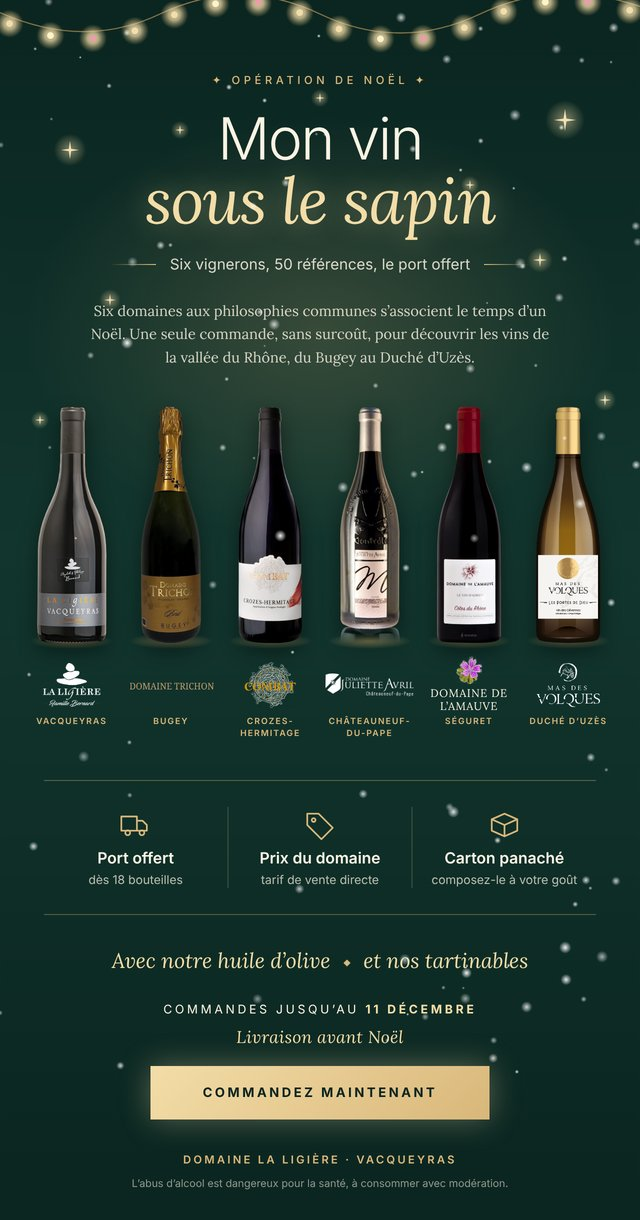
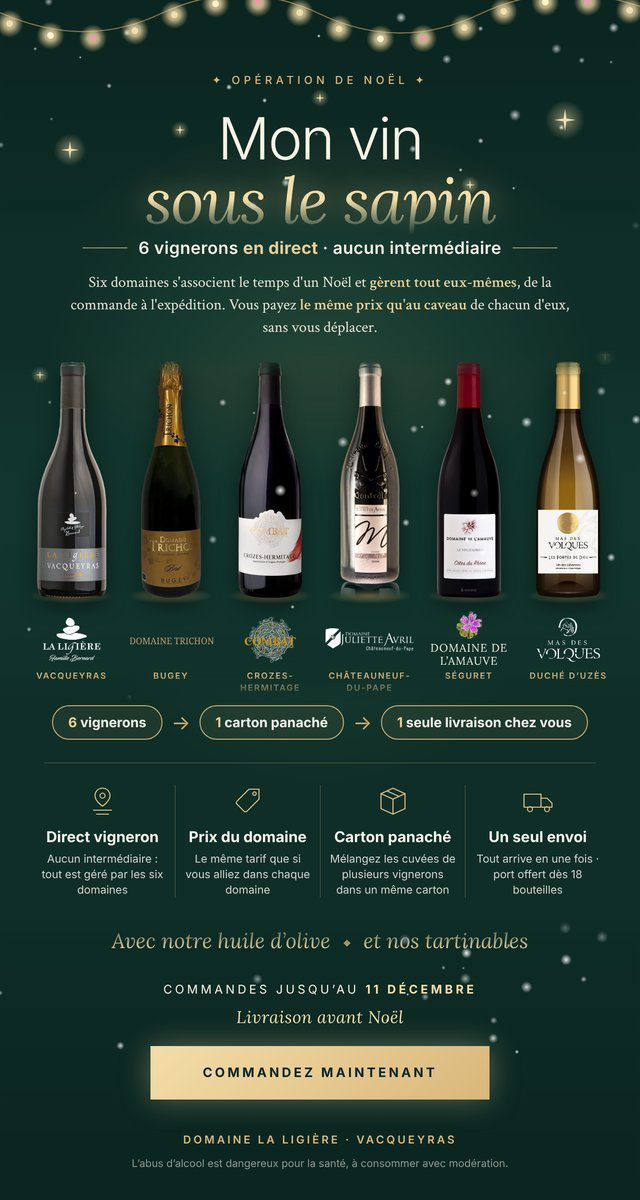
Nouveau visuel v6 et accroche : vignerons en direct, sans intermédiaire
Claude-Session: https://claude.ai/code/session_016Jhk7oRKHMkTPBir5DCGGi

diff --git a/index.html b/index.html
@@ -106,7 +106,7 @@ input[aria-invalid=true]{border:2px solid var(--wine);background:light-dark(#fff
 <div class="wrap">
 <div>
 <h1>Mon vin sous le sapin</h1>
-<p>Composez votre carton panach&#233; parmi les vins de six domaines amis, au prix caveau. Choisissez vos bouteilles ligne par ligne, le total se calcule tout seul.</p>
+<p>Six vignerons en direct, sans interm&#233;diaire : tout est g&#233;r&#233; par les domaines eux-m&#234;mes. Vous payez le prix du caveau de chacun, vous m&#233;langez leurs vins dans un m&#234;me carton et tout arrive en une seule livraison.</p>
 <div class="pills"><span class="pill">Port <b>offert</b> d&#232;s 18 bouteilles, sinon 2 &#8364; par bouteille</span><span class="pill">Commande avant le <b>11 d&#233;cembre</b></span><span class="pill">Livraison <b>avant No&#235;l</b></span></div>
 </div>
 <svg class="tree" viewBox="0 0 130 150" aria-hidden="true">
